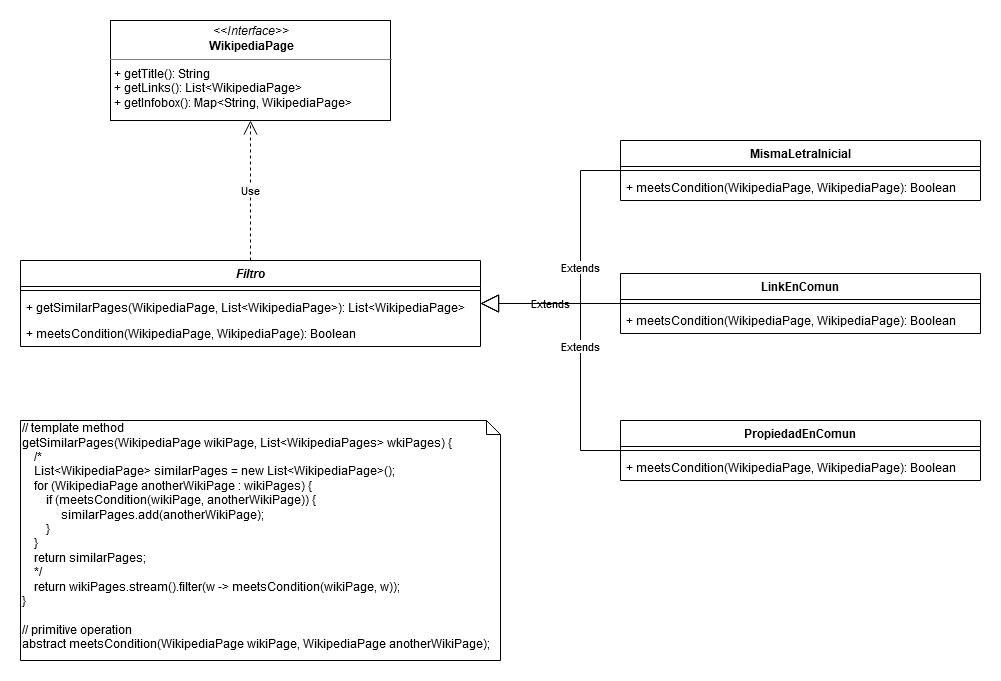
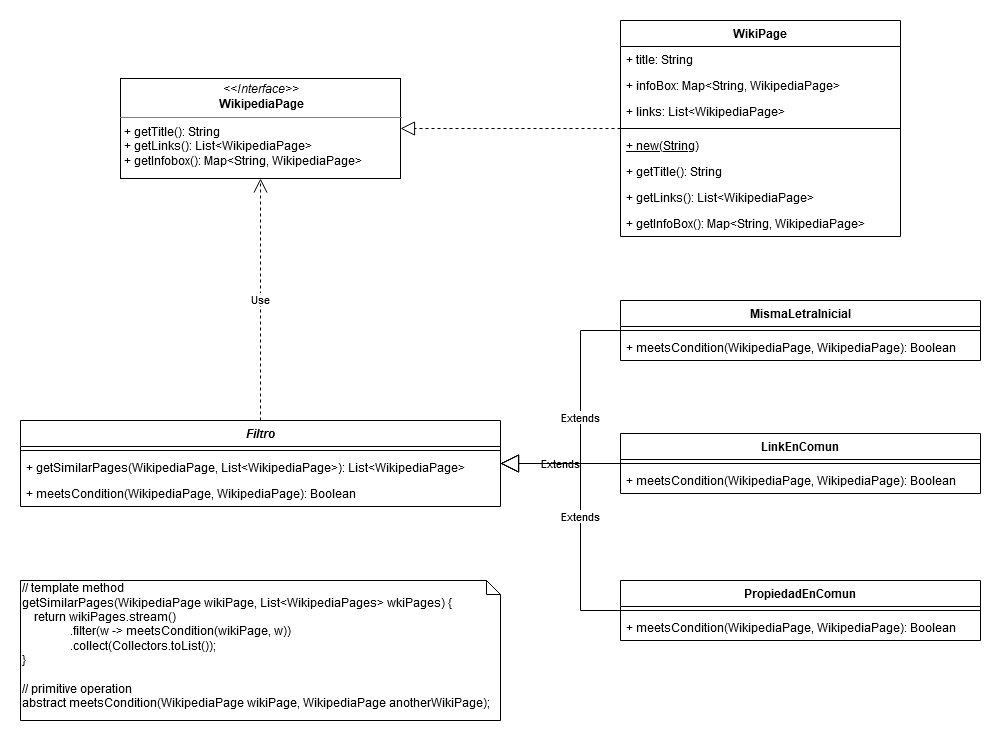
Add Java implementation for TP6 exercise 3

diff --git a/test/ar/unq/po2/tp06/elementos/similares/PropiedadEnComunTest.java b/test/ar/unq/po2/tp06/elementos/similares/PropiedadEnComunTest.java
@@ -1,0 +1,56 @@
+package ar.unq.po2.tp06.elementos.similares;
+
+import static org.junit.jupiter.api.Assertions.*;
+
+import java.util.List;
+
+import org.junit.jupiter.api.BeforeEach;
+import org.junit.jupiter.api.Test;
+
+class PropiedadEnComunTest {
+
+	Filtro filtro;
+	WikiPage animal;
+	WikiPage lobo;
+	WikiPage pantera;
+	WikiPage queso;
+	WikiPage roquefort;
+	WikiPage danbo;
+
+	@BeforeEach
+	void setUp() throws Exception {
+		this.filtro = new PropiedadEnComun();
+		
+		this.animal = new WikiPage("Animal");
+		this.lobo = new WikiPage("Lobo");
+		this.pantera = new WikiPage("Pantera");
+		this.queso = new WikiPage("Queso");
+		this.danbo = new WikiPage("Danbo");
+		this.roquefort = new WikiPage("Roquefort");
+		
+		this.lobo.addInfoBox("animal", this.animal);
+		this.danbo.addInfoBox("queso", this.queso);
+		this.roquefort.addInfoBox("queso", this.queso);
+	}
+
+	@Test
+	void testGetSimilarPages() {
+		List<WikipediaPage> pages = List.of(this.lobo, this.pantera, this.roquefort);
+		
+		List<WikipediaPage> expected = List.of(this.roquefort);
+		
+		List<WikipediaPage> actual = this.filtro.getSimilarPages(this.danbo, pages);
+		
+		assertEquals(expected, actual);
+	}
+	
+	@Test
+	void testGetSimilarPagesWithEmptyResult() {
+		List<WikipediaPage> pages = List.of(this.lobo, this.pantera);
+			
+		List<WikipediaPage> actual = this.filtro.getSimilarPages(this.danbo, pages);
+		
+		assertTrue(actual.isEmpty());
+	}
+
+}

diff --git a/test/ar/unq/po2/tp06/elementos/similares/LinkEnComunTest.java b/test/ar/unq/po2/tp06/elementos/similares/LinkEnComunTest.java
@@ -1,0 +1,53 @@
+package ar.unq.po2.tp06.elementos.similares;
+
+import static org.junit.jupiter.api.Assertions.*;
+
+import java.util.List;
+
+import org.junit.jupiter.api.BeforeEach;
+import org.junit.jupiter.api.Test;
+
+class LinkEnComunTest {
+
+	Filtro filtro;
+	WikiPage lobo;
+	WikiPage queso;
+	WikiPage roquefort;
+	WikiPage danbo;
+
+	@BeforeEach
+	void setUp() throws Exception {
+		this.filtro = new LinkEnComun();
+		
+		this.lobo = new WikiPage("Lobo");		
+		this.queso = new WikiPage("Queso");
+		this.danbo = new WikiPage("Danbo");
+		this.roquefort = new WikiPage("Roquefort");
+		
+		this.queso.addLink(this.danbo);
+		this.queso.addLink(this.roquefort);
+		this.danbo.addLink(this.queso);
+		this.roquefort.addLink(this.queso);
+	}
+
+	@Test
+	void testGetSimilarPages() {
+		List<WikipediaPage> pages = List.of(this.lobo, this.danbo, this.queso);
+		
+		List<WikipediaPage> expected = List.of(this.danbo);
+		
+		List<WikipediaPage> actual = this.filtro.getSimilarPages(this.roquefort, pages);
+		
+		assertEquals(expected, actual);
+	}
+	
+	@Test
+	void testGetSimilarPagesWithEmptyResult() {
+		List<WikipediaPage> pages = List.of(this.queso, this.roquefort, this.danbo);
+			
+		List<WikipediaPage> actual = this.filtro.getSimilarPages(this.lobo, pages);
+		
+		assertTrue(actual.isEmpty());
+	}
+
+}

diff --git a/src/ar/unq/po2/tp06/elementos/similares/WikiPage.java b/src/ar/unq/po2/tp06/elementos/similares/WikiPage.java
@@ -1,0 +1,55 @@
+package ar.unq.po2.tp06.elementos.similares;
+
+import java.util.ArrayList;
+import java.util.HashMap;
+import java.util.List;
+import java.util.Map;
+
+public class WikiPage implements WikipediaPage {
+
+	private String title;
+	private Map<String, WikipediaPage> infoBox;
+	private List<WikipediaPage> links;
+	
+	public WikiPage(String title) {
+		this.setTitle(title);
+		this.setInfoBox(new HashMap<String, WikipediaPage>());
+		this.setLinks(new ArrayList<WikipediaPage>());
+	}
+
+	protected void setTitle(String title) {
+		this.title = title;
+	}
+
+	@Override
+	public String getTitle() {
+		return this.title;
+	}
+
+	private void setInfoBox(Map<String, WikipediaPage> infoBox) {
+		this.infoBox = infoBox;
+	}
+	
+	@Override
+	public Map<String, WikipediaPage> getInfobox() {
+		return this.infoBox;
+	}
+	
+	private void setLinks(List<WikipediaPage> links) {
+		this.links = links;
+	}
+
+	@Override
+	public List<WikipediaPage> getLinks() {
+		return this.links;
+	}
+	
+	public void addInfoBox(String description, WikipediaPage wikiPage) {
+		this.getInfobox().put(description, wikiPage);
+	}
+	
+	public void addLink(WikipediaPage wikiPage) {
+		this.getLinks().add(wikiPage);
+	}
+
+}

diff --git a/test/ar/unq/po2/tp06/elementos/similares/MismaLetraInicialTest.java b/test/ar/unq/po2/tp06/elementos/similares/MismaLetraInicialTest.java
@@ -1,0 +1,46 @@
+package ar.unq.po2.tp06.elementos.similares;
+
+import static org.junit.jupiter.api.Assertions.*;
+
+import java.util.List;
+
+import org.junit.jupiter.api.BeforeEach;
+import org.junit.jupiter.api.Test;
+
+class MismaLetraInicialTest {
+	
+	Filtro filtro;
+	WikipediaPage lobo;
+	WikipediaPage laPlata;
+	WikipediaPage queso;
+
+	@BeforeEach
+	void setUp() throws Exception {
+		this.filtro = new MismaLetraInicial();
+		
+		this.lobo = new WikiPage("Lobo");		
+		this.laPlata = new WikiPage("La Plata");
+		this.queso = new WikiPage("Queso");
+	}
+
+	@Test
+	void testGetSimilarPages() {
+		List<WikipediaPage> pages = List.of(this.laPlata, this.queso);
+		
+		List<WikipediaPage> expected = List.of(this.laPlata);
+		
+		List<WikipediaPage> actual = this.filtro.getSimilarPages(this.lobo, pages);
+		
+		assertEquals(expected, actual);
+	}
+	
+	@Test
+	void testGetSimilarPagesWithEmptyResult() {
+		List<WikipediaPage> pages = List.of(this.lobo, this.laPlata);
+			
+		List<WikipediaPage> actual = this.filtro.getSimilarPages(this.queso, pages);
+		
+		assertTrue(actual.isEmpty());
+	}
+
+}

diff --git a/src/ar/unq/po2/tp06/elementos/similares/Filtro.java b/src/ar/unq/po2/tp06/elementos/similares/Filtro.java
@@ -1,0 +1,16 @@
+package ar.unq.po2.tp06.elementos.similares;
+
+import java.util.List;
+import java.util.stream.Collectors;
+
+public abstract class Filtro {
+
+	public List<WikipediaPage> getSimilarPages(WikipediaPage wikiPage, List<WikipediaPage> wikiPages) {
+		return wikiPages.stream()
+				.filter(w -> meetsCondition(wikiPage, w))
+				.collect(Collectors.toList());
+	}
+	
+	public abstract Boolean meetsCondition(WikipediaPage wikiPage, WikipediaPage anotherWikiPage);
+
+}

diff --git a/src/ar/unq/po2/tp06/elementos/similares/PropiedadEnComun.java b/src/ar/unq/po2/tp06/elementos/similares/PropiedadEnComun.java
@@ -1,0 +1,16 @@
+package ar.unq.po2.tp06.elementos.similares;
+
+import java.util.Collections;
+
+public class PropiedadEnComun extends Filtro {
+
+	public PropiedadEnComun() {
+		// TODO Auto-generated constructor stub
+	}
+
+	@Override
+	public Boolean meetsCondition(WikipediaPage wikiPage, WikipediaPage anotherWikiPage) {
+		return !Collections.disjoint(wikiPage.getInfobox().keySet(), anotherWikiPage.getInfobox().keySet());
+	}
+
+}

diff --git a/src/ar/unq/po2/tp06/elementos/similares/LinkEnComun.java b/src/ar/unq/po2/tp06/elementos/similares/LinkEnComun.java
@@ -1,0 +1,16 @@
+package ar.unq.po2.tp06.elementos.similares;
+
+import java.util.Collections;
+
+public class LinkEnComun extends Filtro {
+
+	public LinkEnComun() {
+		// TODO Auto-generated constructor stub
+	}
+
+	@Override
+	public Boolean meetsCondition(WikipediaPage wikiPage, WikipediaPage anotherWikiPage) {
+		return !Collections.disjoint(wikiPage.getLinks(), anotherWikiPage.getLinks());
+	}
+
+}

diff --git a/src/ar/unq/po2/tp06/elementos/similares/MismaLetraInicial.java b/src/ar/unq/po2/tp06/elementos/similares/MismaLetraInicial.java
@@ -1,0 +1,14 @@
+package ar.unq.po2.tp06.elementos.similares;
+
+public class MismaLetraInicial extends Filtro {
+
+	public MismaLetraInicial() {
+		// TODO Auto-generated constructor stub
+	}
+
+	@Override
+	public Boolean meetsCondition(WikipediaPage wikiPage, WikipediaPage anotherWikiPage) {
+		return wikiPage.getTitle().charAt(0) == anotherWikiPage.getTitle().charAt(0);
+	}
+
+}

diff --git a/src/ar/unq/po2/tp06/elementos/similares/WikipediaPage.java b/src/ar/unq/po2/tp06/elementos/similares/WikipediaPage.java
@@ -1,0 +1,14 @@
+package ar.unq.po2.tp06.elementos.similares;
+
+import java.util.List;
+import java.util.Map;
+
+public interface WikipediaPage {
+	
+	String getTitle();
+	
+	List<WikipediaPage> getLinks();
+	
+	Map<String, WikipediaPage> getInfobox();
+
+}

diff --git a/docs/TP06 - Template Method y Adapter/README.md b/docs/TP06 - Template Method y Adapter/README.md
@@ -64,7 +64,7 @@ Roles:
 - Operación primitiva abstracta: `CuentaBancaria::puedeExtraer`
 - Clases concretas:
   - `CuentaCorriente`
-  - `CajaDeAhorror`
+  - `CajaDeAhorro`
 - Operación primitiva concreta:
   - `CuentaCorriente::puedeExtraer`
   - `CajaDeAhorro::puedeExtraer`
